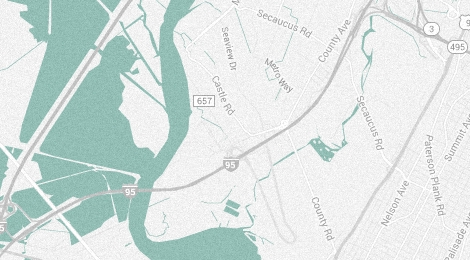
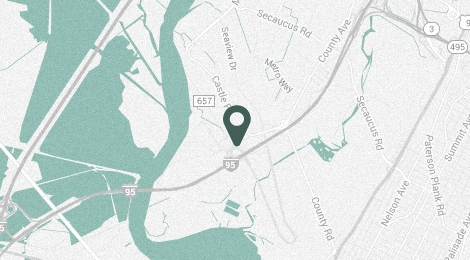
adaptive +

Changed region(s): [[0.4766, 0.4, 0.5362, 0.5538]]

diff --git a/docs/css/style.css b/docs/css/style.css
@@ -34,7 +34,7 @@ html, body {
       font-family: 'canterbold';
       color: #f1ede1; }
       .wrapper .grid-container header .text-container {
-        width: 526px;
+        max-width: 526px;
         height: 300px;
         margin-left: 600px;
         margin-top: 245px; }
@@ -120,10 +120,6 @@ html, body {
           margin-top: 74px;
           border: 1px solid #b5b3af;
           position: relative; }
-          .wrapper .grid-container main .joinus-container .map .position {
-            position: absolute;
-            top: 105px;
-            left: 223px; }
         .wrapper .grid-container main .joinus-container .pathleft {
           position: absolute;
           top: -10%;
@@ -154,6 +150,16 @@ html, body {
             font-style: italic;
             color: #a9a49e;
             background: none; }
+          .wrapper .grid-container main .joinus-container div form textarea::-webkit-input-placeholder {
+            color: #a9a49e; }
+          .wrapper .grid-container main .joinus-container div form textarea::-moz-placeholder {
+            color: #a9a49e; }
+          .wrapper .grid-container main .joinus-container div form textarea:-ms-input-placeholder {
+            color: #a9a49e; }
+          .wrapper .grid-container main .joinus-container div form textarea::-ms-input-placeholder {
+            color: #a9a49e; }
+          .wrapper .grid-container main .joinus-container div form textarea::placeholder {
+            color: #a9a49e; }
           .wrapper .grid-container main .joinus-container div form input::-webkit-input-placeholder {
             color: #a9a49e; }
           .wrapper .grid-container main .joinus-container div form input::-moz-placeholder {
@@ -278,14 +284,45 @@ html, body {
         height: calc(260px*0.9); }
         .wrapper .grid-container main .joinus-container .map img {
           max-width: 100%; }
-        .wrapper .grid-container main .joinus-container .map .position {
-          top: calc(105px*0.9);
-          left: calc(223px*0.9); }
       .wrapper .grid-container main .joinus-container div form {
         width: calc(470px*0.9);
         height: calc(260px*0.9);
         background: url(../img/lines.jpg); }
         .wrapper .grid-container main .joinus-container div form button {
           margin-bottom: 2%; } }
+
+@media (max-width: 500px) {
+  .wrapper .grid-container header .text-container p {
+    font-size: 70px;
+    line-height: 60px;
+    margin: 0; }
+    .wrapper .grid-container header .text-container p:nth-child(2) {
+      font-size: 100px; }
+    .wrapper .grid-container header .text-container p:nth-child(3) {
+      font-size: 70px; }
+  .wrapper .grid-container main .joinus-container .map {
+    width: calc(470px*0.7);
+    height: calc(260px*0.7); }
+  .wrapper .grid-container main .joinus-container div form {
+    width: calc(470px*0.7);
+    height: calc(260px*0.7); }
+    .wrapper .grid-container main .joinus-container div form input[type=text] {
+      left: 25px; }
+    .wrapper .grid-container main .joinus-container div form input[type=email] {
+      left: 180px; }
+    .wrapper .grid-container main .joinus-container div form textarea {
+      left: 25px; }
+    .wrapper .grid-container main .joinus-container div form button {
+      font-size: 25px; } }
+
+@media (max-width: 400px) {
+  .wrapper .grid-container header .text-container p {
+    font-size: 50px;
+    line-height: 45px;
+    margin: 0; }
+    .wrapper .grid-container header .text-container p:nth-child(2) {
+      font-size: 80px; }
+    .wrapper .grid-container header .text-container p:nth-child(3) {
+      font-size: 50px; } }
 
 /*# sourceMappingURL=style.css.map */

diff --git a/src/sass/style.sass b/src/sass/style.sass
@@ -33,7 +33,7 @@ html, body
 			font-family: 'canterbold'
 			color: #f1ede1
 			.text-container
-				width: 526px
+				max-width: 526px
 				height: 300px
 				margin-left: 600px
 				margin-top: 245px
@@ -97,10 +97,6 @@ html, body
 					margin-top: 74px
 					border: 1px solid #b5b3af
 					position: relative
-					.position
-						position: absolute
-						top: 105px
-						left: 223px
 				.pathleft
 					position: absolute
 					top: -10%
@@ -129,6 +125,8 @@ html, body
 							font-style: italic
 							color: #a9a49e
 							background: none
+						textarea::placeholder
+							color: #a9a49e
 						input::placeholder
 							color: #a9a49e
 						input[type=text]
@@ -233,7 +231,6 @@ html, body
 					text-transform: uppercase
 				.joinus-container
 					flex-direction: column
-					// margin-left: 5%
 					align-items: center
 					.map
 						width: calc(470px*0.9)
@@ -241,9 +238,6 @@ html, body
 						img
 							max-width: 100%
 							height:auto
-						.position
-							top: calc(105px*0.9)
-							left: calc(223px*0.9)
 					div
 						form
 							width: calc(470px*0.9)
@@ -251,19 +245,102 @@ html, body
 							background: url(../img/lines.jpg)
 							button
 								margin-bottom: 2%
-// @media (max-width: 567px)
-// 	.wrapper
-// 		.grid-container
-// 			header
-// 				.text-container
-// 				.number-container
-// 					.number-pair-container
-// 						.number
-// 				.ddhhmm-container
-// 					div
-// 			main
-// 				p
-// 				.joinus-container
-// 					// flex-direction: row
-// 					border: 5px solid red
+@media (max-width: 500px)
+	.wrapper
+		.grid-container
+			header
+				.text-container
+					p
+						font-size: 70px
+						line-height: 60px
+						margin: 0
+						&:nth-child(2)
+							font-size: 100px
+						&:nth-child(3)
+							font-size: 70px
+				.number-container
+					.number-pair-container
+						.number 
+					.number-pair-container
+						.number 
+					.number-pair-container
+						.number
+				.ddhhmm-container
+					div
+			main
+				p 
+				.joinus-container
+					.map
+						width: calc(470px*0.7)
+						height: calc(260px*0.7)
+						img
+						img.pathleft
+						img.pathright
+					div
+						form
+							width: calc(470px*0.7)
+							height: calc(260px*0.7)
+							input
+							input[type=text]
+								left: 25px
+							input[type=email]
+								left: 180px
+							textarea
+								left: 25px
+							button
+								font-size: 25px
+							img.pathright
+							img.pathleft
+				.adress-container
+					div
+						img
+					div
+						p
+			footer
+				.img-container
+					img
+@media (max-width: 400px)
+	.wrapper
+		.grid-container
+			header
+				.text-container
+					p
+						font-size: 50px
+						line-height: 45px
+						margin: 0
+						&:nth-child(2)
+							font-size: 80px
+						&:nth-child(3)
+							font-size: 50px
+				.number-container
+					.number-pair-container
+						.number 
+					.number-pair-container
+						.number 
+					.number-pair-container
+						.number
+				.ddhhmm-container
+					div
+			main
+				p 
+				.joinus-container
+					.map
+						img
+						img.pathleft
+						img.pathright
+					div
+						form
+							input
+							textarea 
+							button 
+							img.pathright
+							img.pathleft
+				.adress-container
+					div
+						img
+					div
+						p
+			footer
+				.img-container
+					img
 

diff --git a/docs/index.html b/docs/index.html
@@ -38,12 +38,12 @@
         <main>
           <p>Want to join us?</p>
           <div class="joinus-container">
-            <div class="map"><img src="img/map.jpg" alt="map"/><img class="position" src="img/position.png" alt="position"/><img class="pathleft" src="img/pathleft.png" alt="pathleft"/><img class="pathright" src="img/pathright.png" alt="pathright"/></div>
+            <div class="map"><img src="img/map.jpg" alt="map"/><img class="pathleft" src="img/pathleft.png" alt="pathleft"/><img class="pathright" src="img/pathright.png" alt="pathright"/></div>
             <div>
               <form>
                 <input type="text" name="" placeholder="Your name"/>
                 <input type="email" placeholder="Your email"/>
-                <textarea>Your message</textarea>
+                <textarea placeholder="Your message"></textarea>
                 <button>SUBMIT</button><img class="pathright" src="img/pathright.png" alt="pathright"/><img class="pathleft" src="img/pathleft.png" alt="pathleft"/>
               </form>
             </div>
